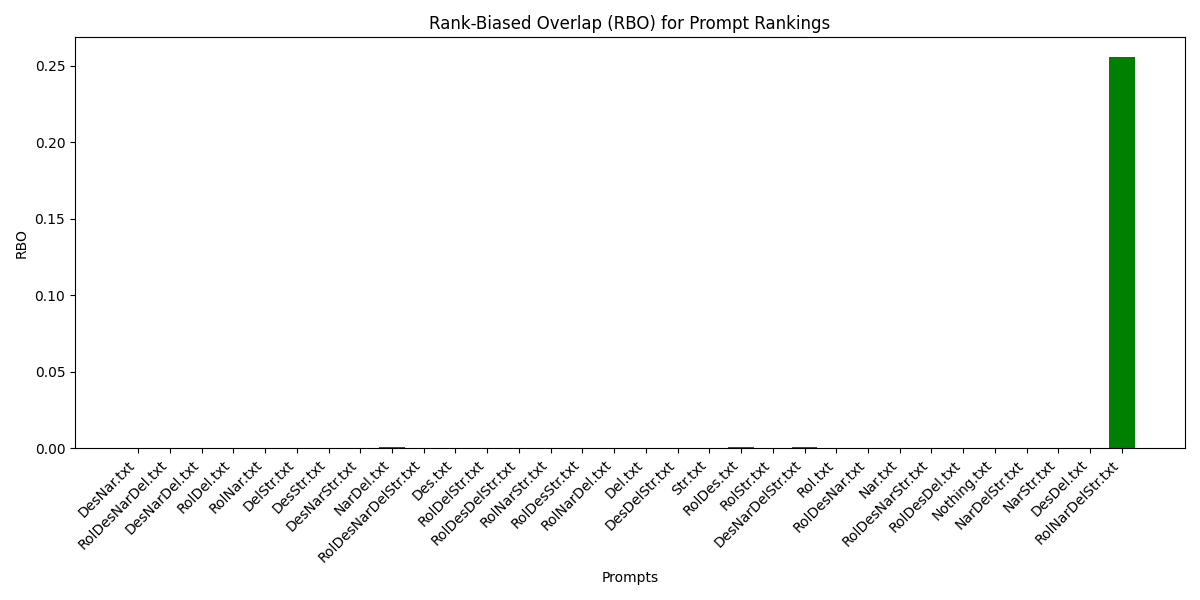
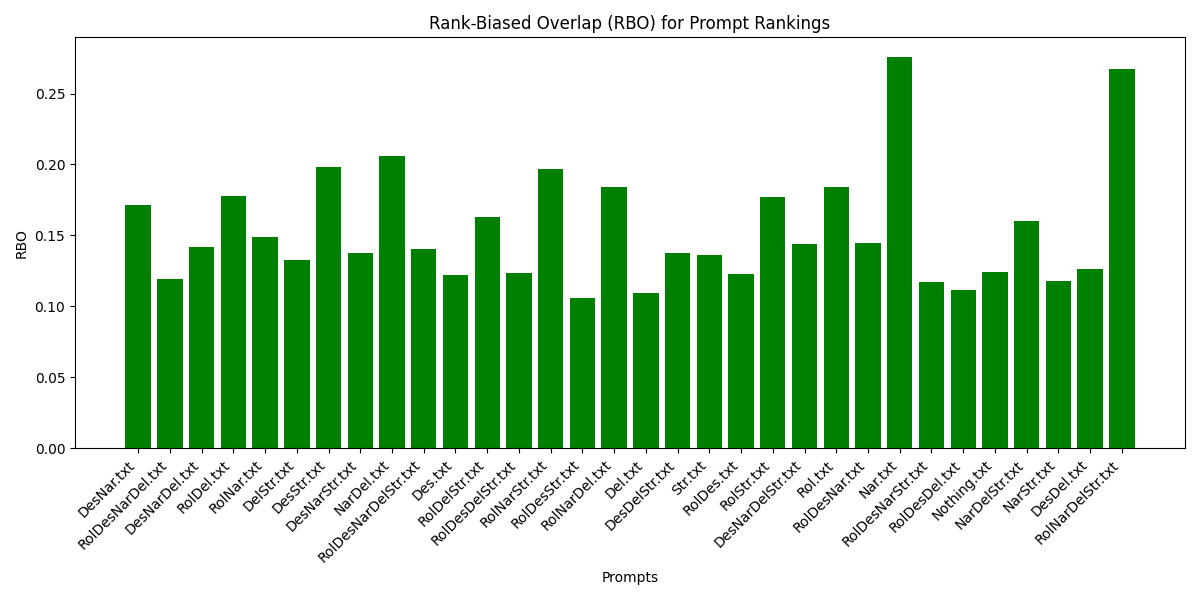
Change rbo method

diff --git a/plot_rbo.py b/plot_rbo.py
@@ -5,6 +5,8 @@ import numpy as np
 import matplotlib.pyplot as plt
 from collections import defaultdict
 
+DEPTH = 1000
+
 # Function to read compatibility scores
 def read_scores(prompt_path, dataset):
     helpful_path = os.path.join(prompt_path, dataset, "helpful-compatibility.txt")
@@ -19,21 +21,22 @@ def read_scores(prompt_path, dataset):
     return helpful_avg, harmful_avg
 
 # Function to compute RBO for two rankings
-def compute_rbo(rank1, rank2, p=0.9):
-    """Computes Rank-Biased Overlap (RBO) between two rankings."""
-    rank1 = list(rank1)
-    rank2 = list(rank2)
-    S = set(rank1)
-    T = set(rank2)
-    overlap = 0.0
-    rbo = 0.0
+def compute_rbo(run, ideal, p=0.95):
+    run_set = set()
+    ideal_set = set()
 
-    for d in range(1, max(len(rank1), len(rank2)) + 1):
-        overlap += 1 if d <= len(rank1) and d <= len(rank2) and rank1[d - 1] == rank2[d - 1] else 0
-        rbo += (overlap / d) * (p ** (d - 1))
-
-    return rbo * (1 - p)
-
+    score = 0.0
+    normalizer = 0.0
+    weight = 1.0
+    for i in range(DEPTH):
+        if i < len(run):
+            run_set.add(run[i])
+        if i < len(ideal):
+            ideal_set.add(ideal[i])
+        score += weight*len(ideal_set.intersection(run_set))/(i + 1)
+        normalizer += weight
+        weight *= p
+    return score/normalizer 
 # Function to get dataset rankings based on helpful - harmful
 def get_rankings(base_dir):
     rankings = {}
